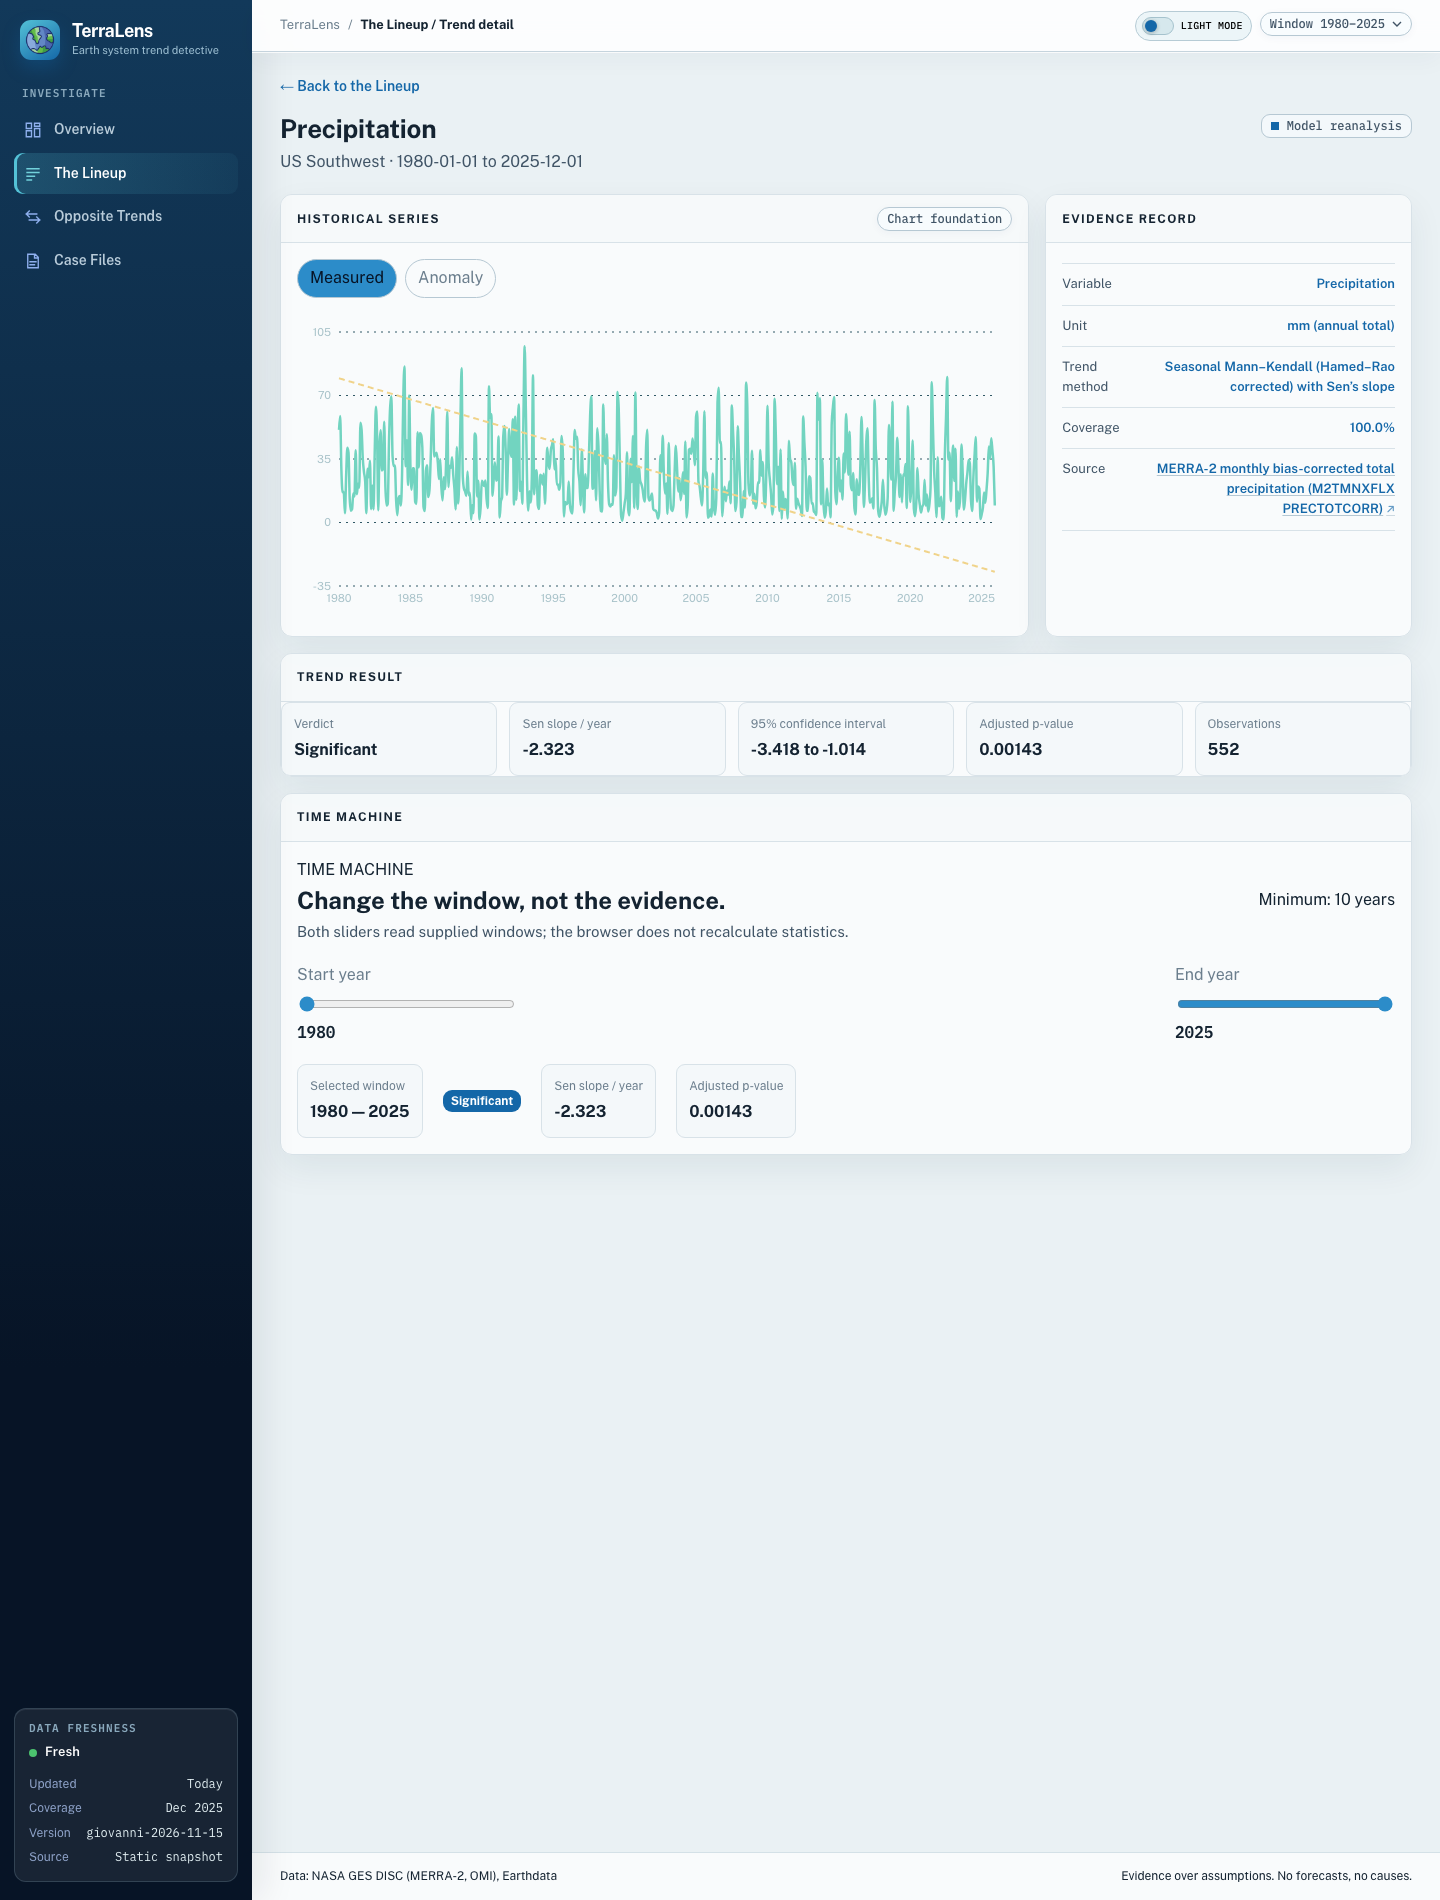
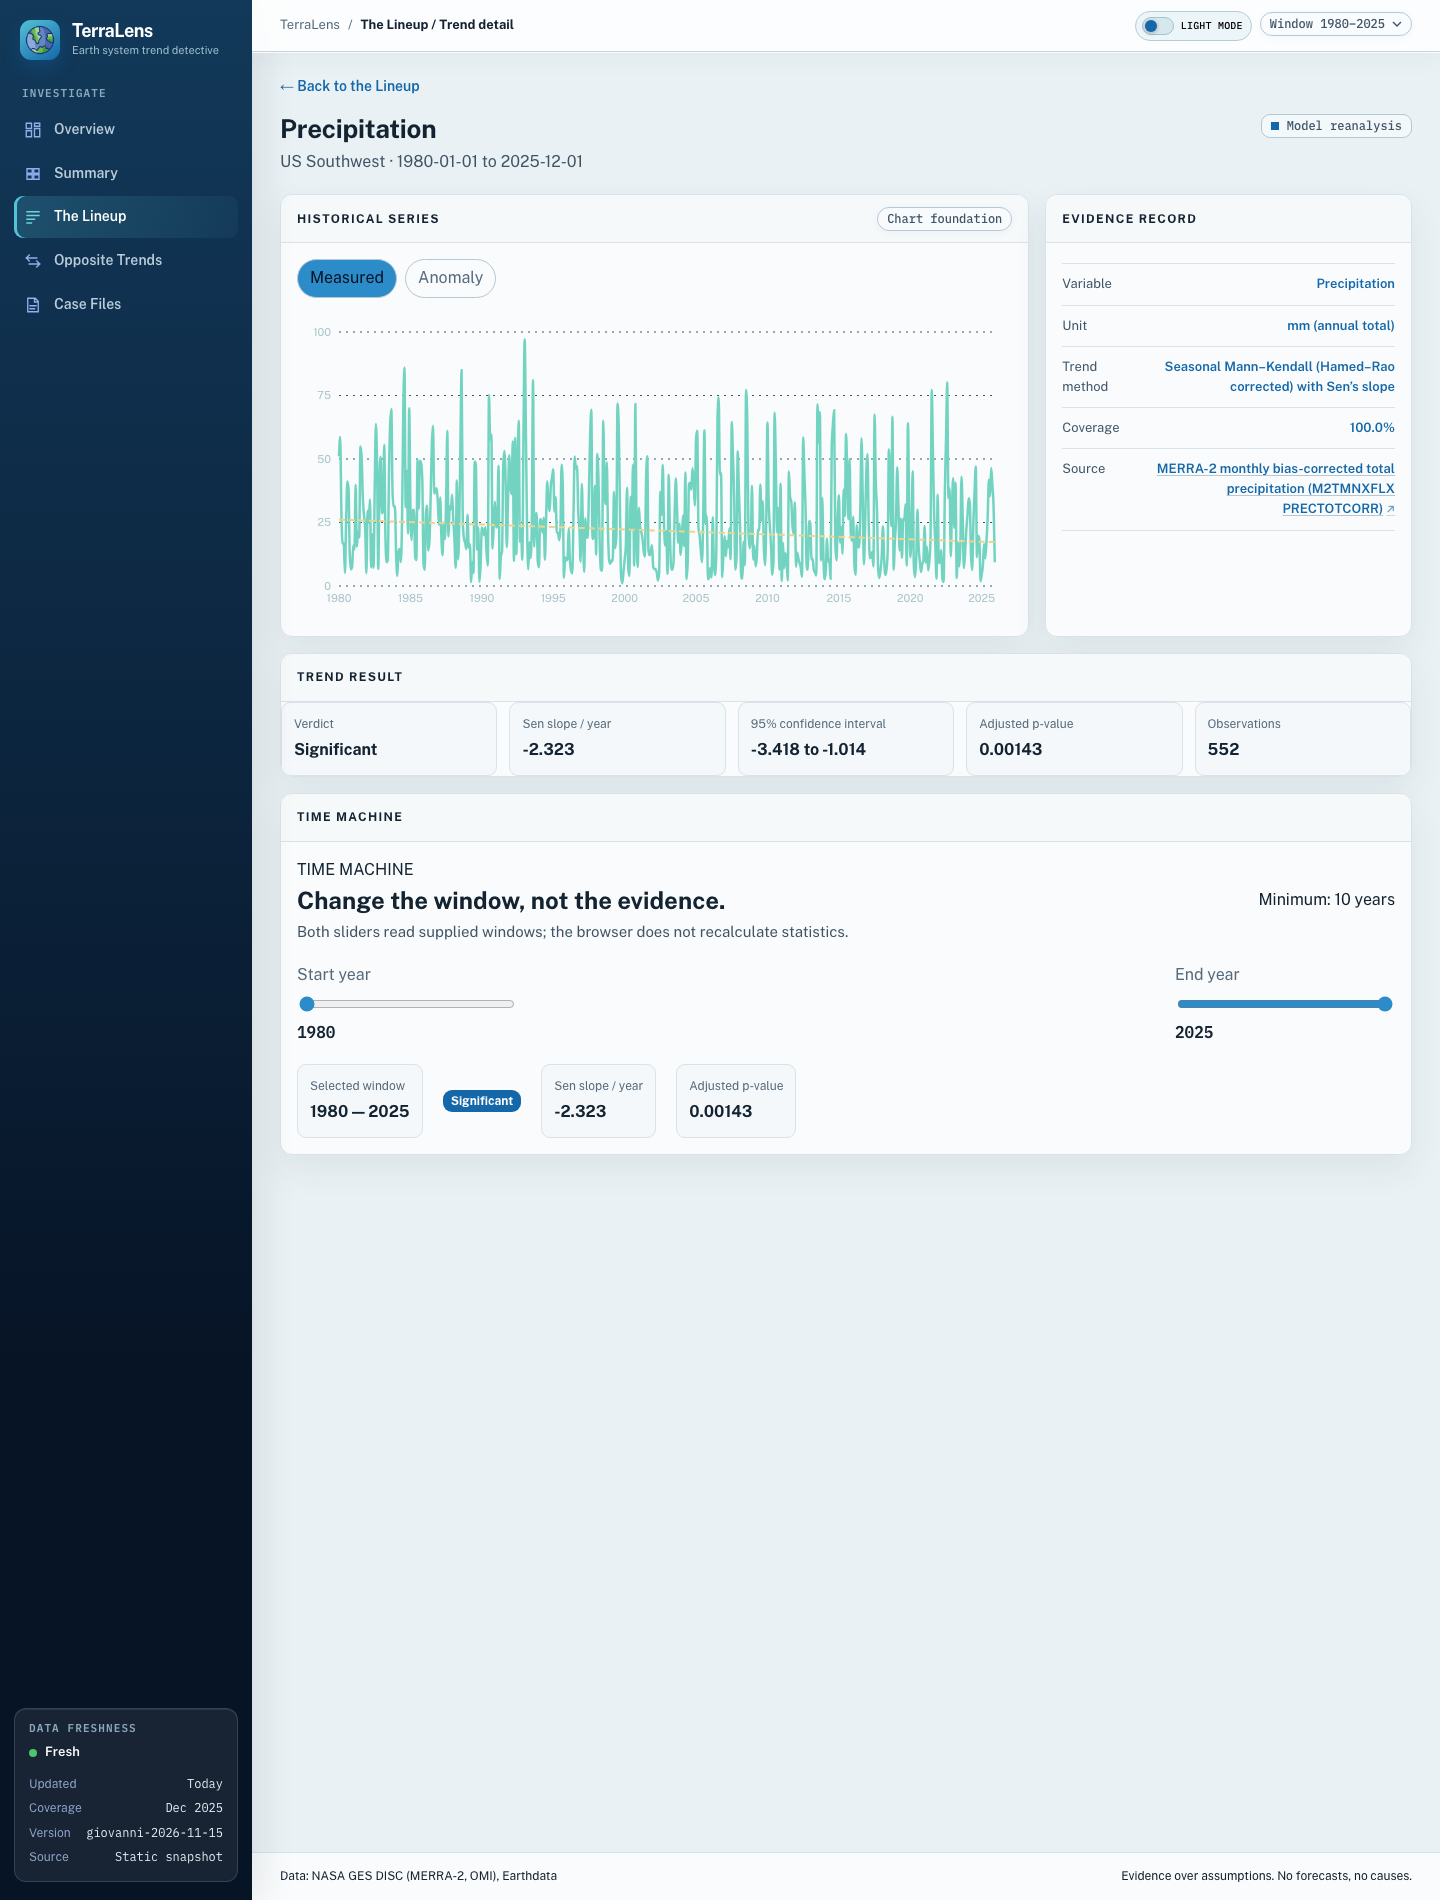
docs: re-take the detail screenshot after the trend-line fix (NAS-53) (#60)
## What
Screenshot 04 (US Southwest precipitation detail page) re-taken from the
live site after PR #58: the dashed trend line now runs from about 25 to
18 mm/month. README note updated.

## Linear
NAS-53

## Contract impact
- [x] None

## How tested
Looked at the image on the live site build.

## Not verified
Nothing else changed.

## Science check
- [x] No sample/fixture data presented as findings
- [x] No causal/predictive wording

## AI use
- [x] Covered by the demo kit row in `docs/ai-use.md`

Changed region(s): [[0.2188, 0.2174, 0.6875, 0.3105], [0.0, 0.0621, 0.0938, 0.1553]]

diff --git a/docs/demo/README.md b/docs/demo/README.md
@@ -7,7 +7,7 @@ Screenshots of the live app (https://terralens-7bo.pages.dev), taken 15 Nov 2026
 | `01-overview.png` | Overview: three-question start, five study regions (the map tiles load only with network access, so the map area can be blank in a screenshot) |
 | `02-lineup-us-southwest.png` | Lineup for the US Southwest: five rows, all significant |
 | `03-lineup-nw-south-asia.png` | Lineup for NW South Asia: aerosol, precipitation, evapotranspiration, soil moisture up; air temperature flat |
-| `04-detail-us-southwest-precipitation.png` | Detail page with series, trend line and Time Machine. **Re-take after PR #58 is live**: before it, the precipitation trend line is drawn too steep |
+| `04-detail-us-southwest-precipitation.png` | Detail page with series, trend line and Time Machine. Re-taken after PR #58 went live (15 Nov 01:05); before it the precipitation trend line was drawn too steep |
 | `05-compare.png` | Opposite Trends (air temperature) |
 | `06-case-files.png` | Case Files stepper |
 | `07-mobile-lineup.png` | Lineup at phone width (captured at a 500 px minimum window, so the right edge is cropped) |
